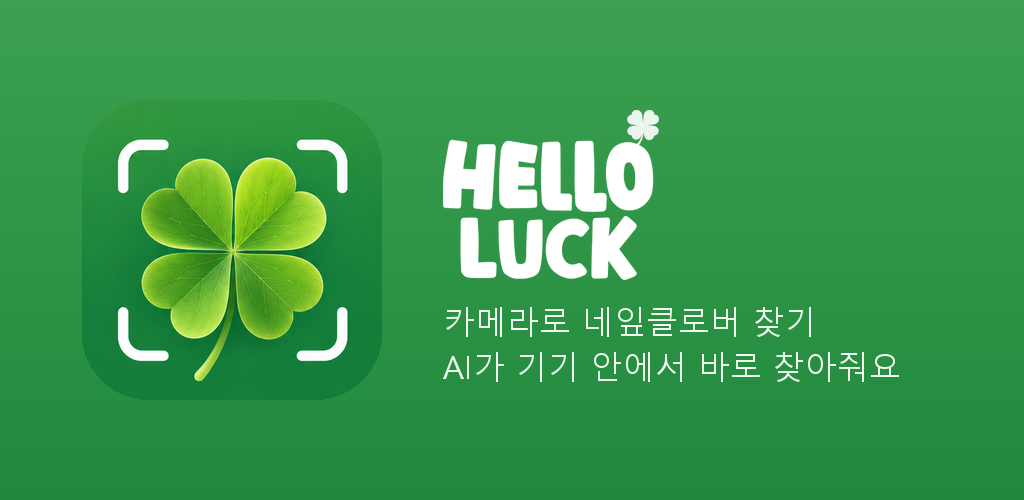
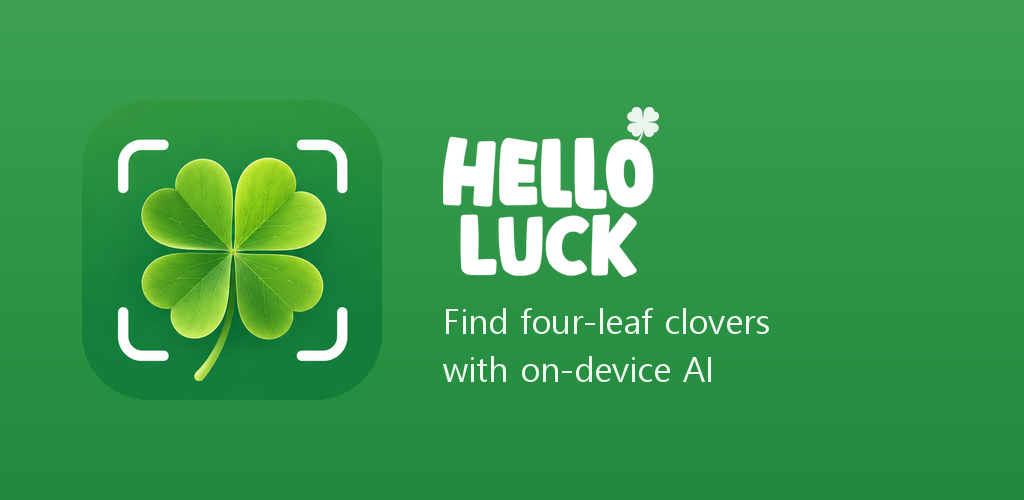
store: name with clover keywords, English feature graphic, 14 Play locales
- ko name "Hello Luck: 네잎클로버 찾기", en "Hello Luck: Four Leaf Clover"
- App Store ko subtitle "AI 카메라로 행운 찾기"
- make_store_graphics.py writes separate ko/en feature graphics
- play/listing-intl.json: ja zh-CN zh-TW es-419 es-ES pt-BR fr de it ru id vi th ar

Changed region(s): [[0.4375, 0.6, 0.875, 0.78], [0.4375, 0.21, 0.6562, 0.48], [0.4375, 0.51, 0.625, 0.57]]

diff --git a/scripts/make_store_graphics.py b/scripts/make_store_graphics.py
@@ -52,8 +52,11 @@ def banner(w: int, h: int, lines: list[str], line_px: int) -> Image.Image:
 
 
 def main():
-    banner(1024, 500, ["카메라로 네잎클로버 찾기", "AI가 기기 안에서 바로 찾아줘요"], 32).save(
-        ROOT / "play" / "feature-graphic-1024x500.png"
+    ko = banner(1024, 500, ["카메라로 네잎클로버 찾기", "AI가 기기 안에서 바로 찾아줘요"], 32)
+    ko.save(ROOT / "play" / "feature-graphic-1024x500.png")
+    ko.save(ROOT / "play" / "feature-graphic-ko-1024x500.png")
+    banner(1024, 500, ["Find four-leaf clovers", "with on-device AI"], 34).save(
+        ROOT / "play" / "feature-graphic-en-1024x500.png"
     )
     banner(1200, 675, ["카메라로 네잎클로버 찾기"], 40).save(ROOT / "toss" / "banner-1200x675.png")
     print("store banners ->", ROOT)

diff --git a/store-listing/play/listing.md b/store-listing/play/listing.md
@@ -15,11 +15,11 @@ assets: `icon-512.png`, `feature-graphic-<ko|en>-1024x500.png`, `screenshots/<ko
 ### 앱 이름 (30자)
 **ko**
 ```
-Hello Luck: 행운 찾기
+Hello Luck: 네잎클로버 찾기
 ```
 **en**
 ```
-Hello Luck: Find Your Luck
+Hello Luck: Four Leaf Clover
 ```
 
 ### 간단한 설명 (80자)
